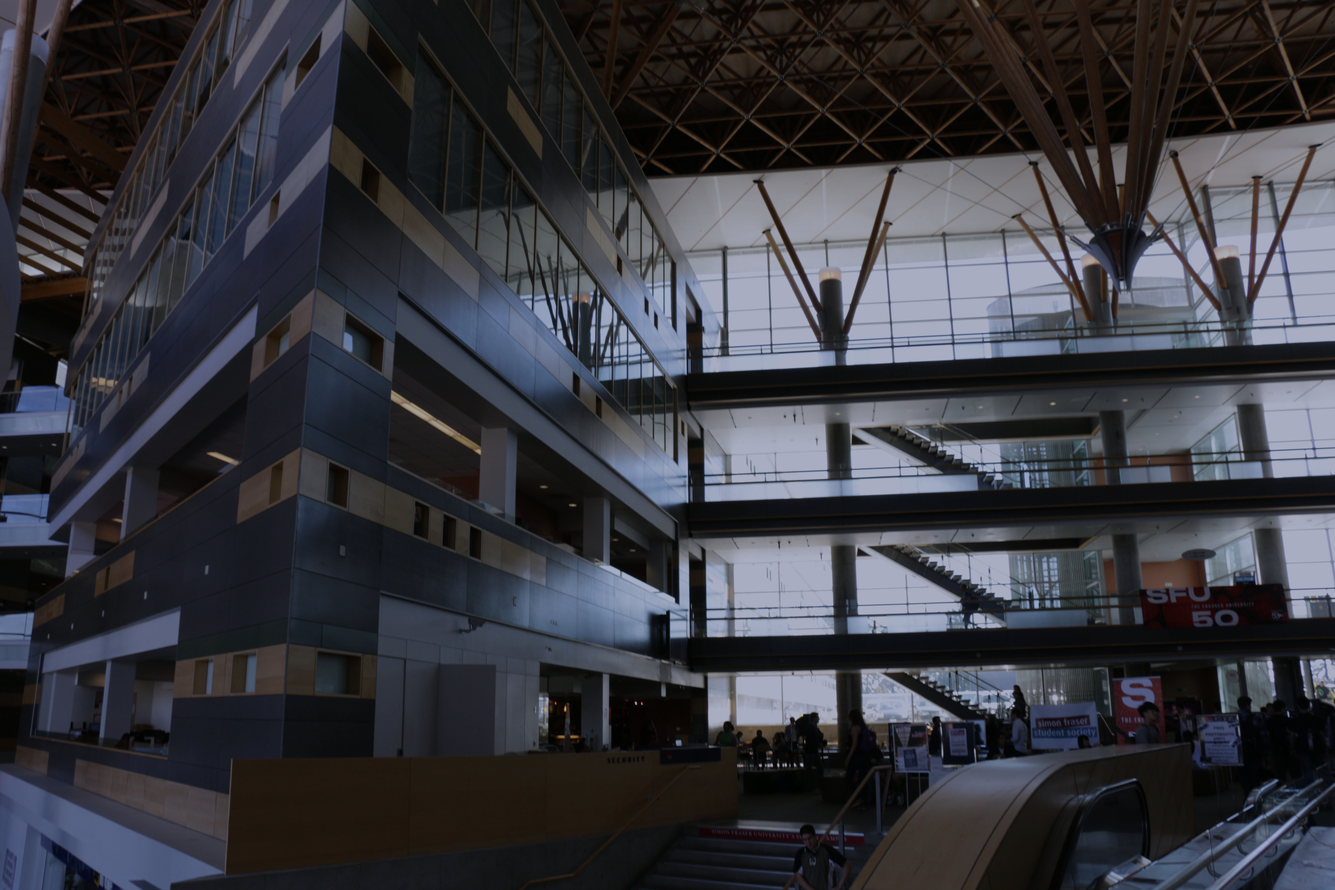
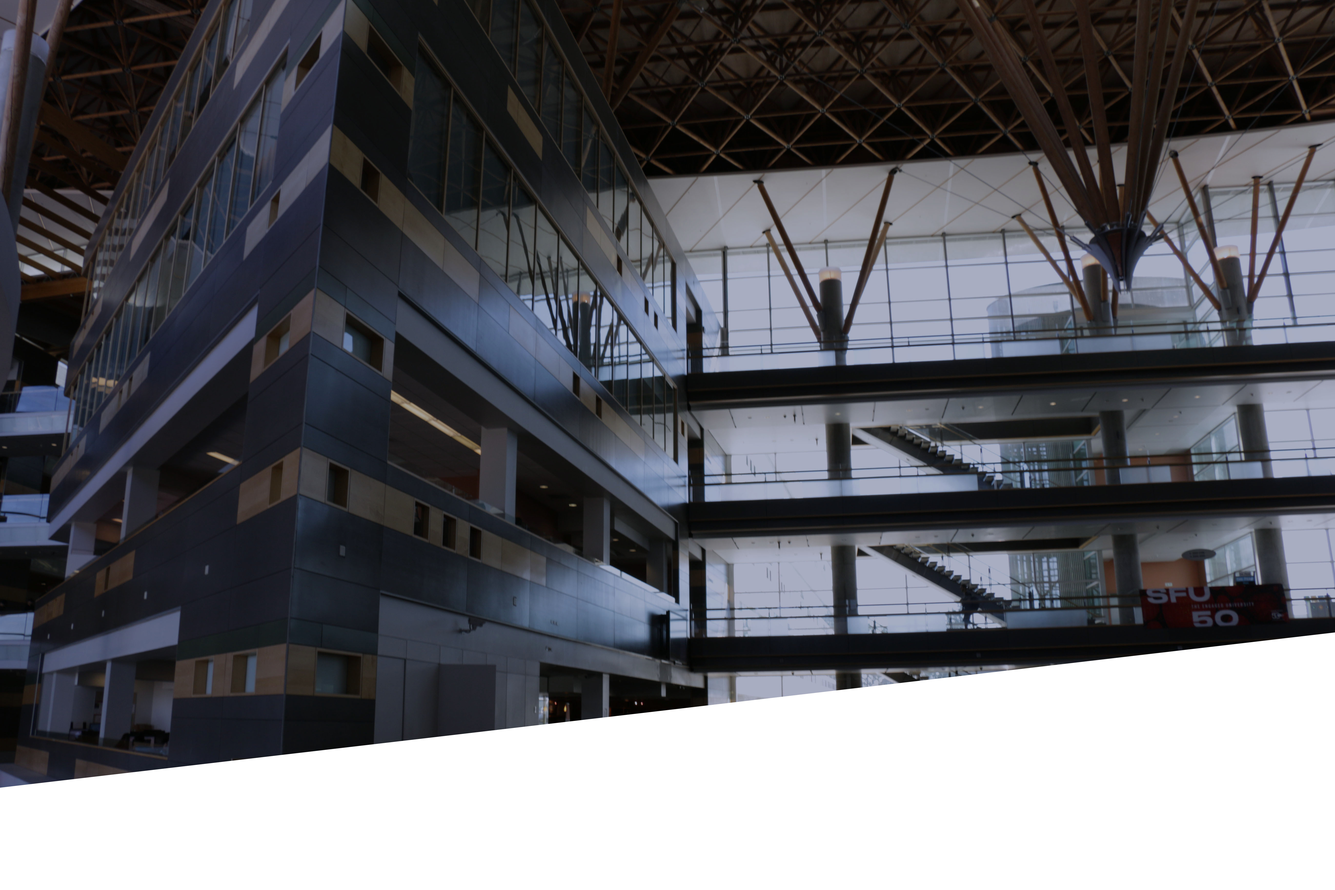
update images

Changed region(s): [[0.0, 0.6875, 1.0, 1.0]]

diff --git a/index.html b/index.html
@@ -8,7 +8,7 @@
     <title>Document</title>
     <link rel="stylesheet" type="text/css" href="style/main.css">
     <script src="https://code.jquery.com/jquery-3.3.1.js" integrity="sha256-2Kok7MbOyxpgUVvAk/HJ2jigOSYS2auK4Pfzbm7uH60=" crossorigin="anonymous"></script>
-    
+
     <script type="text/javascript">
         $(document).ready(function () {
             $('.toggle').click(function () {
@@ -21,66 +21,85 @@
 <body>
     <section class="showcase">
         <div class="showcase_info">
-                    <h1>MIS Connect 2018 was a success!</h1>
-                    <p class="white">
-                        Thank you to all the attendees, organizations, and professionals!
-                    </p>
-                <a class="button" href="https://www.flickr.com/photos/103161342@N02/albums/72157688872482250/with/39960870975/" target="_blank">Event Photos</a>
+            <h1>MIS Connect 2018 was a success!</h1>
+            <p class="white">
+                Thank you to all the attendees, organizations, and professionals!
+            </p>
+            <a class="button" href="https://www.flickr.com/photos/103161342@N02/albums/72157688872482250/with/39960870975/" target="_blank">Event Photos</a>
 
         </div>
-            <nav>
-                    <a href="#" class="logo">
-                        <img src="img/logo.png" height="70px">
-                    </a>
-                    <a class="toggle">
-                        <div class="menu icon"></div>
-                        <div class="menu icon"></div>
-                        <div class="menu icon"></div>
-                    </a>
-            
-                    <ul class="">
-                        <li>
-                            <a href="index.html">Home</a>
-                        </li>
-                        <li>
-                            <a href="#">Partners</a>
-                        </li>
-                        <li>
-                            <a href="#">Event Pictures</a>
-                        </li>
-                        <li>
-                            <a href="#">Blog</a>
-                        </li>
-                    </ul>
-                </nav>
+        <nav>
+            <a href="#" class="logo">
+                <img src="img/logo.png" height="70px">
+            </a>
+            <a class="toggle">
+                <div class="menu icon"></div>
+                <div class="menu icon"></div>
+                <div class="menu icon"></div>
+            </a>
+
+            <ul class="">
+                <li>
+                    <a href="index.html">Home</a>
+                </li>
+                <li>
+                    <a href="#">Partners</a>
+                </li>
+                <li>
+                    <a href="#">Event Pictures</a>
+                </li>
+                <li>
+                    <a href="#">Blog</a>
+                </li>
+            </ul>
+        </nav>
 
     </section>
-    
+
     <div class="main">
         <div class="row">
             <div class="two cols">
-                    <h1>About Us</h1>
-                    <p>
-                        The Management Information Systems Association (MISA) is a student organization associated with the Beedie School of Business
-                        at Simon Fraser University, British Columbia. Our organization consists of dedicated executives and active members
-                        who recognize the importance of providing students with opportunities to learn more about the business technology
-                        industry and to participate in networking and social activities with local industry professionals. With over
-                        800 members, MISA is continuously growing and coming up with new, innovative ideas for events. By working together
-                        with industry firms like yours to provide students with high-caliber events, MISA also provides you with an exclusive
-                        look at the future leaders of tomorrow’s technology management industry – your future employees. To accomplish
-                        this, MISA has paved the way with our signature networking event of the year – MISA Mixer. We have been recognized
-                        by the SFU Business Administration student body as the two-time “Rising Star” award winner for the positive impact
-                        our events have made on students. We intend to continue providing our MIS students with opportunities, while
-                        developing closer ties between SFU and the local IT industry. Our commitment and dedication is reflected by our
-                        continued success and we look forward to sharing that success with you.
-                    </p>
+                <h1>About Us</h1>
+                <section class="mobile show">
+                    <div class="two cols">
+                        <img src="img/about_us.jpg">
+                    </div>
+                </section>
+                <p>
+                    The Management Information Systems Association (MISA) is a student organization associated with the Beedie School of Business
+                    at Simon Fraser University, British Columbia. Our organization consists of dedicated executives and active
+                    members who recognize the importance of providing students with opportunities to learn more about the
+                    business technology industry and to participate in networking and social activities with local industry
+                    professionals. With over 800 members, MISA is continuously growing and coming up with new, innovative
+                    ideas for events. By working together with industry firms like yours to provide students with high-caliber
+                    events, MISA also provides you with an exclusive look at the future leaders of tomorrow’s technology
+                    management industry – your future employees. To accomplish this, MISA has paved the way with our signature
+                    networking event of the year – MISA Mixer. We have been recognized by the SFU Business Administration
+                    student body as the two-time “Rising Star” award winner for the positive impact our events have made
+                    on students. We intend to continue providing our MIS students with opportunities, while developing closer
+                    ties between SFU and the local IT industry. Our commitment and dedication is reflected by our continued
+                    success and we look forward to sharing that success with you.
+                </p>
             </div>
-            <div class="two cols">
-                   <img src="img/about_us.jpg">
-            </div>
+
+            <section class="mobile hide">
+                <div class="two cols">
+                    <img src="img/about_us.jpg">
+                </div>
+            </section>
+            <!-- end of row -->
         </div>
-        
+        <!-- end of main -->
     </div>
+
+    <section id="what-we-do">
+        <div>
+            <h1>What we do</h1>
+            <p>MISA gives our members a competitive edge by facilitating events to help broaden their professional networks
+                and hosting workshops on in-demand business technology skills</p>
+        </div>
+    </section>
+
     <footer>
         <p>&copy; all right reserved to MISA 2018</p>
     </footer>

diff --git a/style/main.css b/style/main.css
@@ -11,13 +11,25 @@ _____________Table of Content_______________
 body{
     margin:0;
     padding: 0;
+    background: rgb(57, 57, 57);
     font-family: sans-serif;
+}
+
+.row{
+    margin-top:50px;
+}
+
+.mobile.show{
+    display: none;
+}
+.mobile.hide{
+    display: block;
 }
 .showcase{
     position: relative;
     width: 100%;
     height: 100vh;
-    background: url("../img/surrey_campus.jpg");
+    background: url("../img/showcase.jpg");
     background-size: cover;
 
 }
@@ -47,13 +59,28 @@ body{
 
 img{
     width: 100%;
-    padding: 50px;
-    object-fit: cover;
 }
 .logo img{
     width:auto;
     padding-top: 5px;
     padding-bottom: 5px;
+}
+
+#what-we-do{
+    background:#fff;
+}
+#what-we-do h1{
+    color: #000;
+}
+#what-we-do p{
+    color:#000;
+}
+
+#what-we-do div{
+    width: 50%;
+    margin: 0 auto;
+    padding-top: 15px;
+    padding-bottom: 15px;
 }
 /*_________3. Typography_________  */
 .showcase_info h1{
@@ -61,9 +88,13 @@ img{
     font-size: 4em;
     margin: 1px;
 }
+h1{
+    color:white;
+}
 
 p{
     font-size: 1.5em;
+    color: #fff;
 }
 .ice.grey{
     color: rgb(27, 17, 17);
@@ -144,6 +175,7 @@ footer{
 
 footer p{
     padding: 25px;
+    margin: 0;
 }
 
 
@@ -174,6 +206,10 @@ footer p{
 width:50%;
 }
 
+.two.cols.center{
+    margin: 0 auto;
+}
+
 
 @media(max-width: 992px){
     .toggle{
@@ -183,6 +219,9 @@ width:50%;
         width: auto;
         height: 550px;
 
+    }
+    .two.cols{
+        width:100%;
     }
 
     .showcase_info h1{
@@ -220,5 +259,14 @@ width:50%;
         width:150px;
         padding-top: 20px;
         height: auto;
+    }
+
+
+    .mobile.show{
+        display: block;
+    }
+    .mobile.hide{
+        display: none;
+
     }
 }
